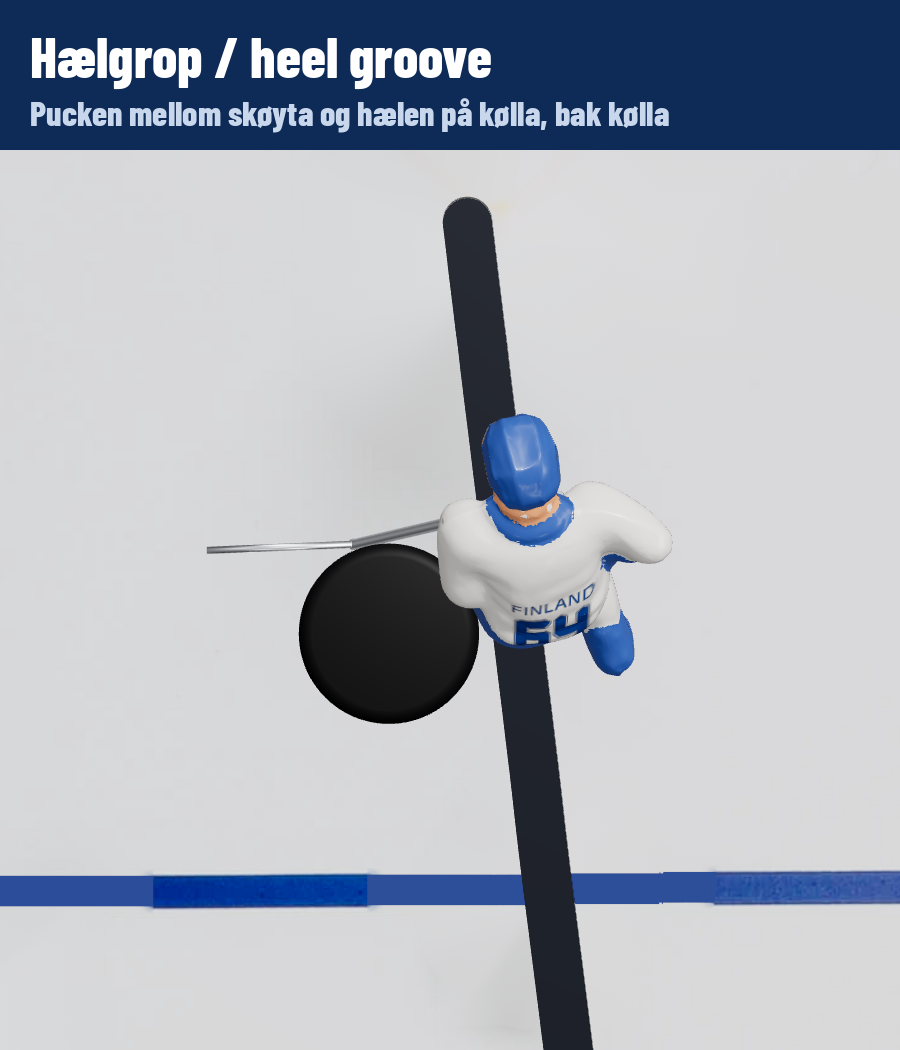
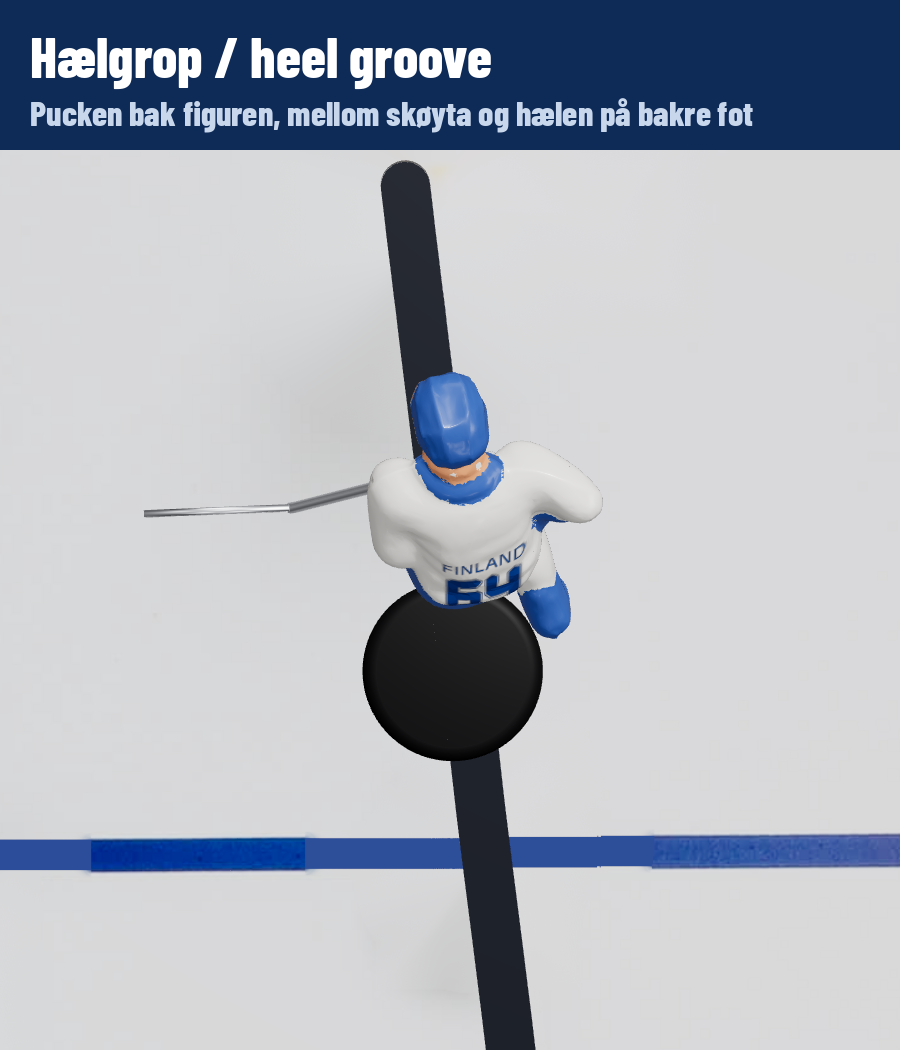
Move pictures: heel groove is the pocket between the skates; Fakie Spjass and Omvendspjass from the second review
Claude-Session: https://claude.ai/code/session_0163UNMThHuTXhwU3eDHknZt

diff --git a/scripts/move-pictures/build.py b/scripts/move-pictures/build.py
@@ -31,15 +31,17 @@ BLADE_MID = np.array([2.8, 33.1])  # skater blade middle, local mm (scripts/ikv-
 # (data/figures/contact-footprints.json, puck radius 12.7 mm): each touches the figure with at most 0.25 mm gap and no
 # overlap. User review 2026-11-27: the heel groove is the pocket between the skate and the heel of the stick, the puck
 # touching only those two (a puck through the stick is wrong); a pass from the right wing is caught on the figure's back.
+# Second review 2026-11-27: "heel" is the heel of the skate: the heel groove is the pocket between the left boot and the
+# heel of the right foot (pushed back), behind the figure; on a carry about 10% of the puck lies over the slot.
 GRIPS = {
-    "heel": [-9.5, 17.2],   # heel groove: touches the left skate and the stick heel, behind the stick
+    "heel": [-20.0, -0.75],  # heel groove: touches the left boot and the heel of the right foot
     "stick": [17.7, 18.0],  # stick groove: in front of the stick, next to the skate (ASSUMED)
     "toe": [21.2, 0.0],     # toe groove: straight in front of the skate (ASSUMED)
     "back": [-19.9, 0.0],   # back catch: straight behind the figure, touching the back of the skate
 }
 # Heel-groove carry (user review 2026-11-27): the figure is turned so the stick points about 45 deg forward toward the
 # right boards (theta -135 for the white end), the puck in front of it in the heel groove.
-HEEL_CARRY_THETA = -135.0
+HEEL_CARRY_THETA = -140.0  # puck centre 13.4 mm left of the slot line: about 2.5 mm of it over a ~7 mm wide slot
 HOME = {"W": 0.0, "E": 180.0}
 GX, GY = HW["goal"]["placement_mm"]["E"]
 BOARD = np.array(G["board"]["inner_boundary"]["world"]["points_mm"], float)
@@ -355,7 +357,8 @@ def build(spec):
         slot = Slot(g["pid"])
         arc, _ = slot.nearest(pic_to_world(*g["figure_px"]))
         th = g.get("theta_deg", 0.0)
-        gpuck = slot.at(arc) + rot(HOME[g["pid"][0]] + th) @ np.array(g["puck_local_mm"], float)
+        gl = GRIPS[g["grip"]] if "grip" in g else g["puck_local_mm"]
+        gpuck = slot.at(arc) + rot(HOME[g["pid"][0]] + th) @ np.array(gl, float)
         ghost = {"pid": g["pid"], "arc_mm": round(arc, 1), "theta_deg": th, "figure_mm": [round(float(c), 1) for c in slot.at(arc)],
                  "puck_mm": [round(float(c), 1) for c in gpuck], "to": str(g.get("to", key(spec["contacts"][0])))}
     cam = fit_camera(spec["view"])

diff --git a/scripts/move-pictures/terms.py b/scripts/move-pictures/terms.py
@@ -25,7 +25,7 @@ SPAN_MM = 130.0  # width of the view
 
 # id, title, line under it, figure, arc mm, theta deg, grip, status
 TERMS = [
-    ("heel-groove", "Hælgrop / heel groove", "Pucken mellom skøyta og hælen på kølla, bak kølla",
+    ("heel-groove", "Hælgrop / heel groove", "Pucken bak figuren, mellom skøyta og hælen på bakre fot",
      "W-C", 200.0, 0.0, "heel", "user rule 2026-11-27"),
     ("heel-groove-carry", "Edwall-drag (hælgrop)", "Høyrewing: kølla ca. 45° mot høyre vant, pucken i hælgropa",
      "W-RW", 150.0, B.HEEL_CARRY_THETA, "heel", "user rule 2026-11-27"),

diff --git a/docs/move-pictures.md b/docs/move-pictures.md
@@ -198,3 +198,17 @@ The user commented on three cards (Fakie Näcka marked good). Redrawn, PROPOSED,
 - **Term pictures** (user idea): `scripts/move-pictures/terms.py` renders close-ups of heel groove, Edwall drag, stick
   groove, toe groove and the back catch from the same `GRIPS` (validation/move-pictures/terms/). Stick and toe groove are
   ASSUMED (marked UTKAST) until the user checks them.
+
+Second round the same day (user's comments on the review page):
+
+- **Edwall-innspill:** the puck sat on the slot's centre line; it should lie slightly to the left with about 10% of it
+  over the slot. Read together with the first comment ("touch the foot and the heel only"), the heel is the heel of the
+  skate: the heel groove is now the pocket between the left boot and the heel of the right foot, behind the figure
+  (`GRIPS["heel"]` (-20.0, -0.75) mm, both touching, stick 13.9 mm away). `HEEL_CARRY_THETA` -140 puts the puck centre
+  13.4 mm left of the slot line. Applied to the six heel-groove carries, the start bubbles of Fakie Lillstøvel and
+  Fakie Omvendspjass (puck 4 mm nearer than before, now touching) and the term pictures.
+- **Fakie Omvendspjass:** the puck starts on the slot's centre line: the start is the centre turned backwards with the
+  puck in the heel groove (as in Fakie Lillstøvel). Start and trick share one puck spot, so one numbered point.
+- **Fakie Spjass:** exactly the normal Spjass (pose, points and arrows copied from the redrawn puck.no Spjass picture)
+  after the toe-groove start.
+- Lindahl-innspill and Fakie Lillstøvel are marked good.
